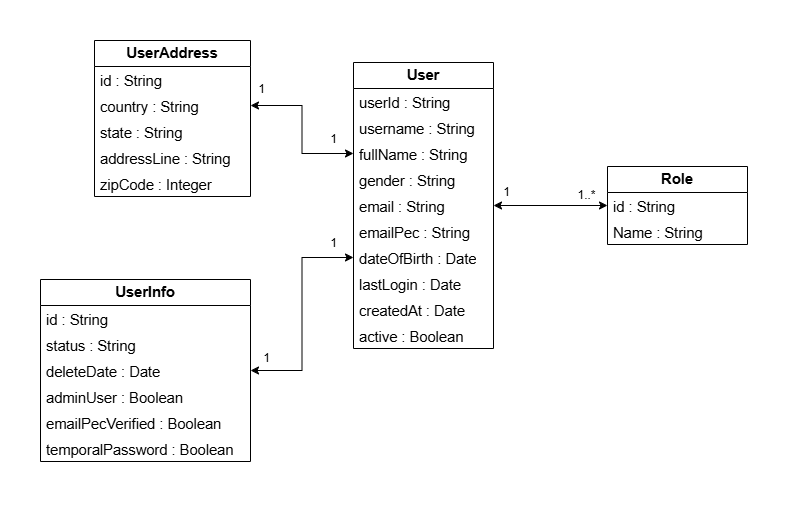
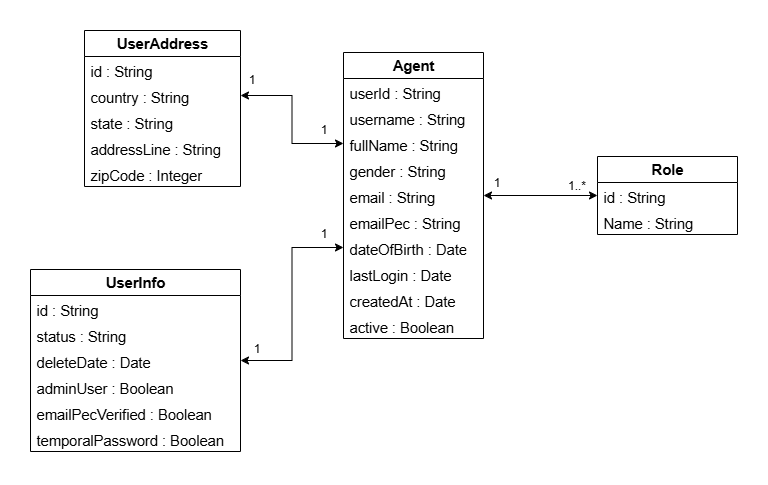
update description

Changed region(s): [[0.0312, 0.0619, 0.9688, 0.9278], [0.4375, 0.5567, 0.625, 0.7113]]

diff --git a/README.md b/README.md
@@ -1,53 +1,89 @@
-Structure du Projet :
+# Agent Management Application - Documentation
+
+## Dépendances utilisées
+
+- **Spring Web** : Framework web pour les APIs REST
+- **Spring Data JPA** : Couche d'accès aux données
+- **PostgreSQL Driver** : Driver pour la base de données PostgreSQL
+- **Lombok** : Réduction du code boilerplate
+- **Validation** : Validation des données d'entrée
+- **Spring Boot DevTools** : Outils de développement
+
+## Structure du Projet
+
+```text
 src/main/java/com/example/agents/
 ├── controller/
-│ └── AgentController.java
+│   └── AgentController.java
 ├── model/
-│ ├── Agent.java
-│ ├── Role.java
-│ ├── UserInfo.java
-│ └── UserAddress.java
+│   ├── Agent.java
+│   ├── Role.java
+│   ├── UserInfo.java
+│   └── UserAddress.java
 ├── repository/
-│ └── AgentRepository.java
+│   └── AgentRepository.java
 ├── service/
-│ └── AgentService.java
+│   └── AgentService.java
 ├── util/
-│ └── UserIdGenerator.java
+│   └── UserIdGenerator.java
 └── AgentManagementApplication.java
+```
 
-Les dépendances qui sont utilisé :
-Spring Web
-Spring Data JPA
-PostgreSQL Driver
-Lombok
-Validation
-Spring Boot DevTools
+## Diagramme de classes
 
-Diagramme de class
-![diagrame de class](images/classe.png)
+![Diagramme de classes](images/classe.png)
 
-Capture Postman
-collection of tested api
-![imagee](images/collections.png)
+- Un Agent peut avoir plusieurs rôles.
+- Chaque Agent possède une seule fiche d’informations (UserInfo).
+- Chaque Agent possède une seule adresse (UserAddress).
 
-Ajoute un nouvel agent
-![imagee](images/add.png)
-Récupérer tous les agents
+### Tests avec Postman
 
-![imagee](images/getAll.png)
+#### Collection des APIs testées
 
-Récupérer un agent par ID
-![imagee](images/getAgent.png)
-met a jour un agent
-![imagee](images/update.png)
-suprimer un agent
-![imagee](images/delete.png)
-Récupère les agents actifs
-![imagee](images/getActive.png)
+![Collection Postman](images/collections.png)
 
-Capture Postgres
-base de donne de agent
-![imagee](images/agentdb.png)
+APIs REST - Endpoints :
 
-exemple role
-![imagee](images/roledb.png)
+| Méthode  | Endpoint                 | Description                            |
+| -------- | ------------------------ | -------------------------------------- |
+| `GET`    | `/api/v1/agents`         | Récupère la liste de tous les agents   |
+| `POST`   | `/api/v1/agent`          | Ajoute un nouvel agent                 |
+| `GET`    | `/api/v1/agent/{userId}` | Récupère un agent par son ID           |
+| `PUT`    | `/api/v1/agent/{userId}` | Met à jour les informations d'un agent |
+| `DELETE` | `/api/v1/agent/{userId}` | Supprime un agent                      |
+| `GET`    | `/api/v1/agents/active`  | Récupère les agents actifs             |
+
+#### Ajouter un nouvel agent
+
+![Ajout agent](images/add.png)
+
+#### Récupérer tous les agents
+
+![Liste agents](images/getAll.png)
+
+#### Récupérer un agent par ID
+
+![Agent par ID](images/getAgent.png)
+
+#### Mettre à jour un agent
+
+![Mise à jour agent](images/update.png)
+
+#### Supprimer un agent
+
+![Suppression agent](images/delete.png)
+
+#### Récupérer les agents actifs
+
+![Agents actifs](images/getActive.png)
+
+### Base de données PostgreSQL
+
+#### Table des agents
+
+![Base de données agents](images/agentdb.png)
+
+#### Table des rôles
+
+![Base de données rôles](images/roledb.png)
